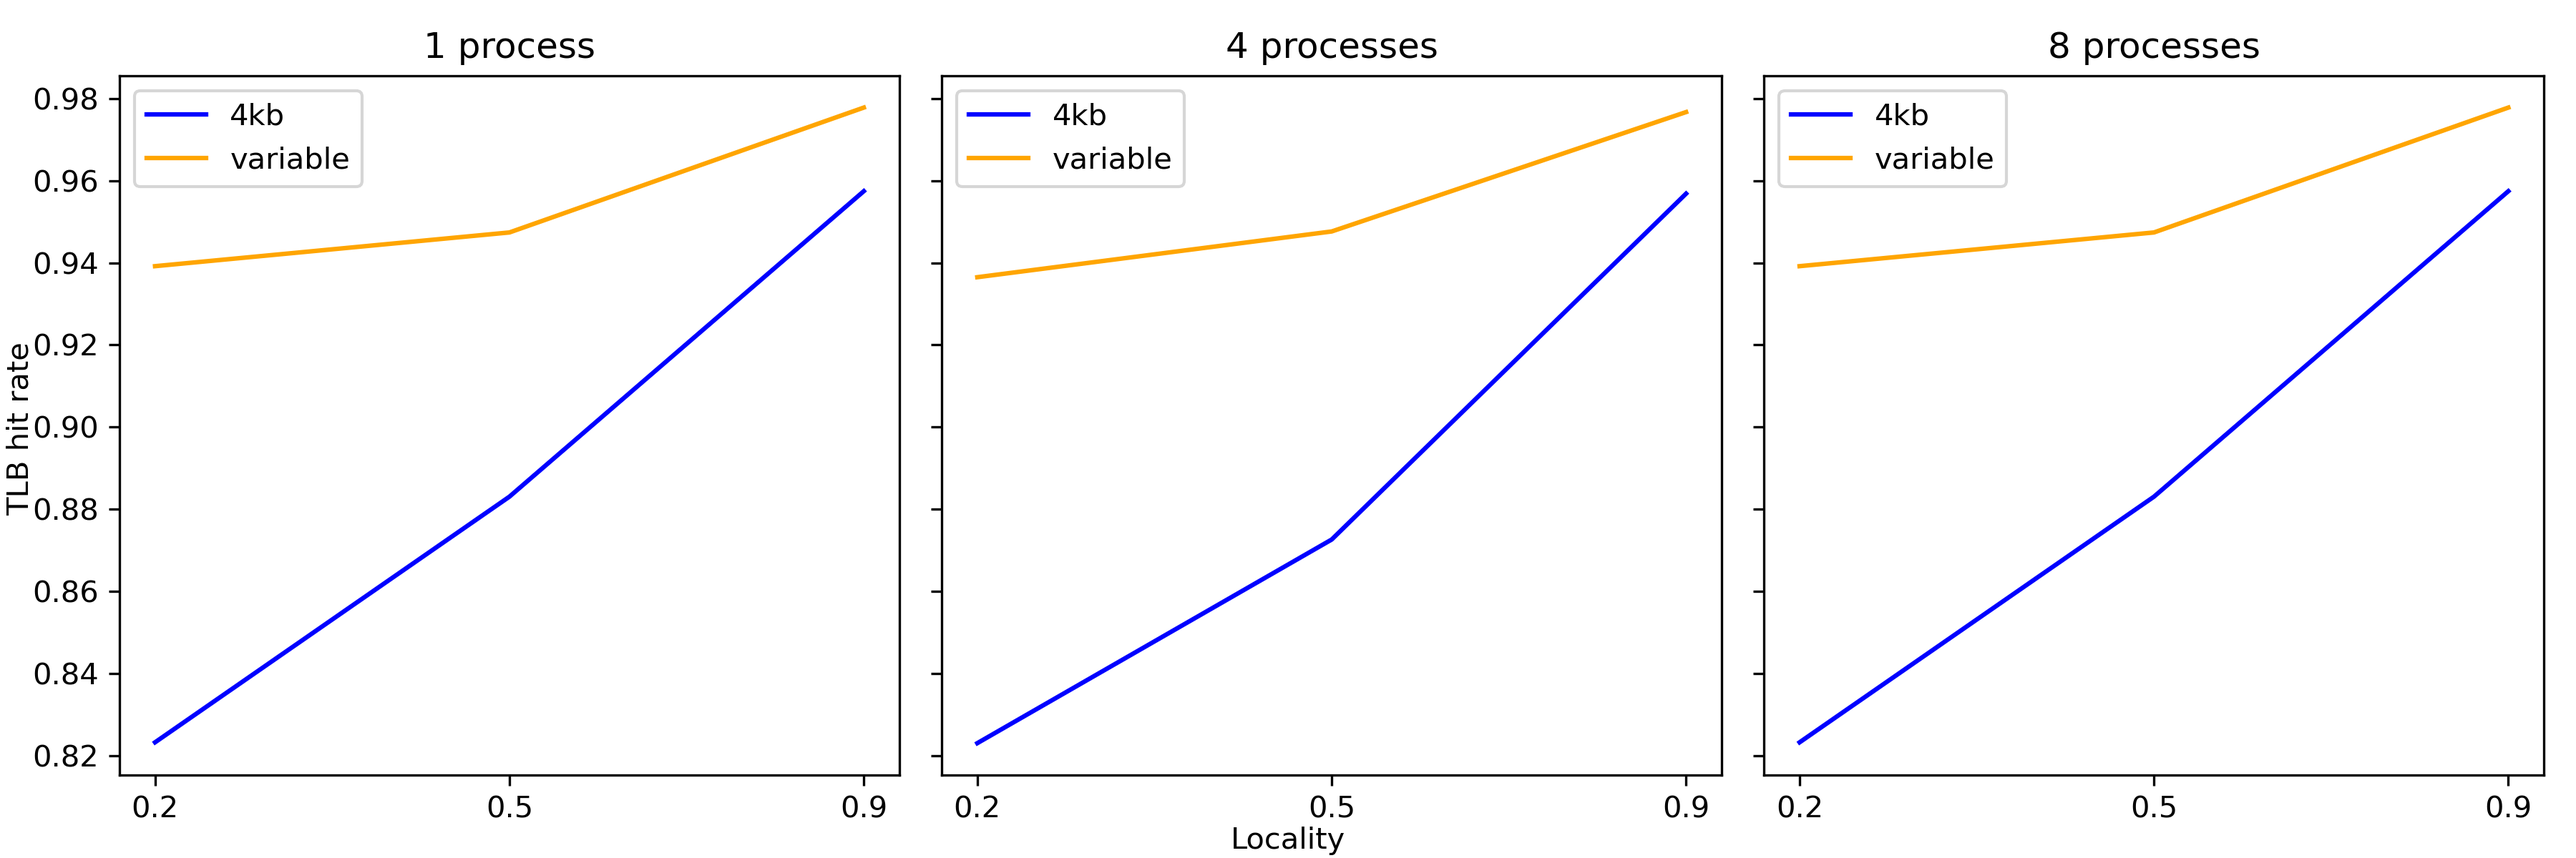
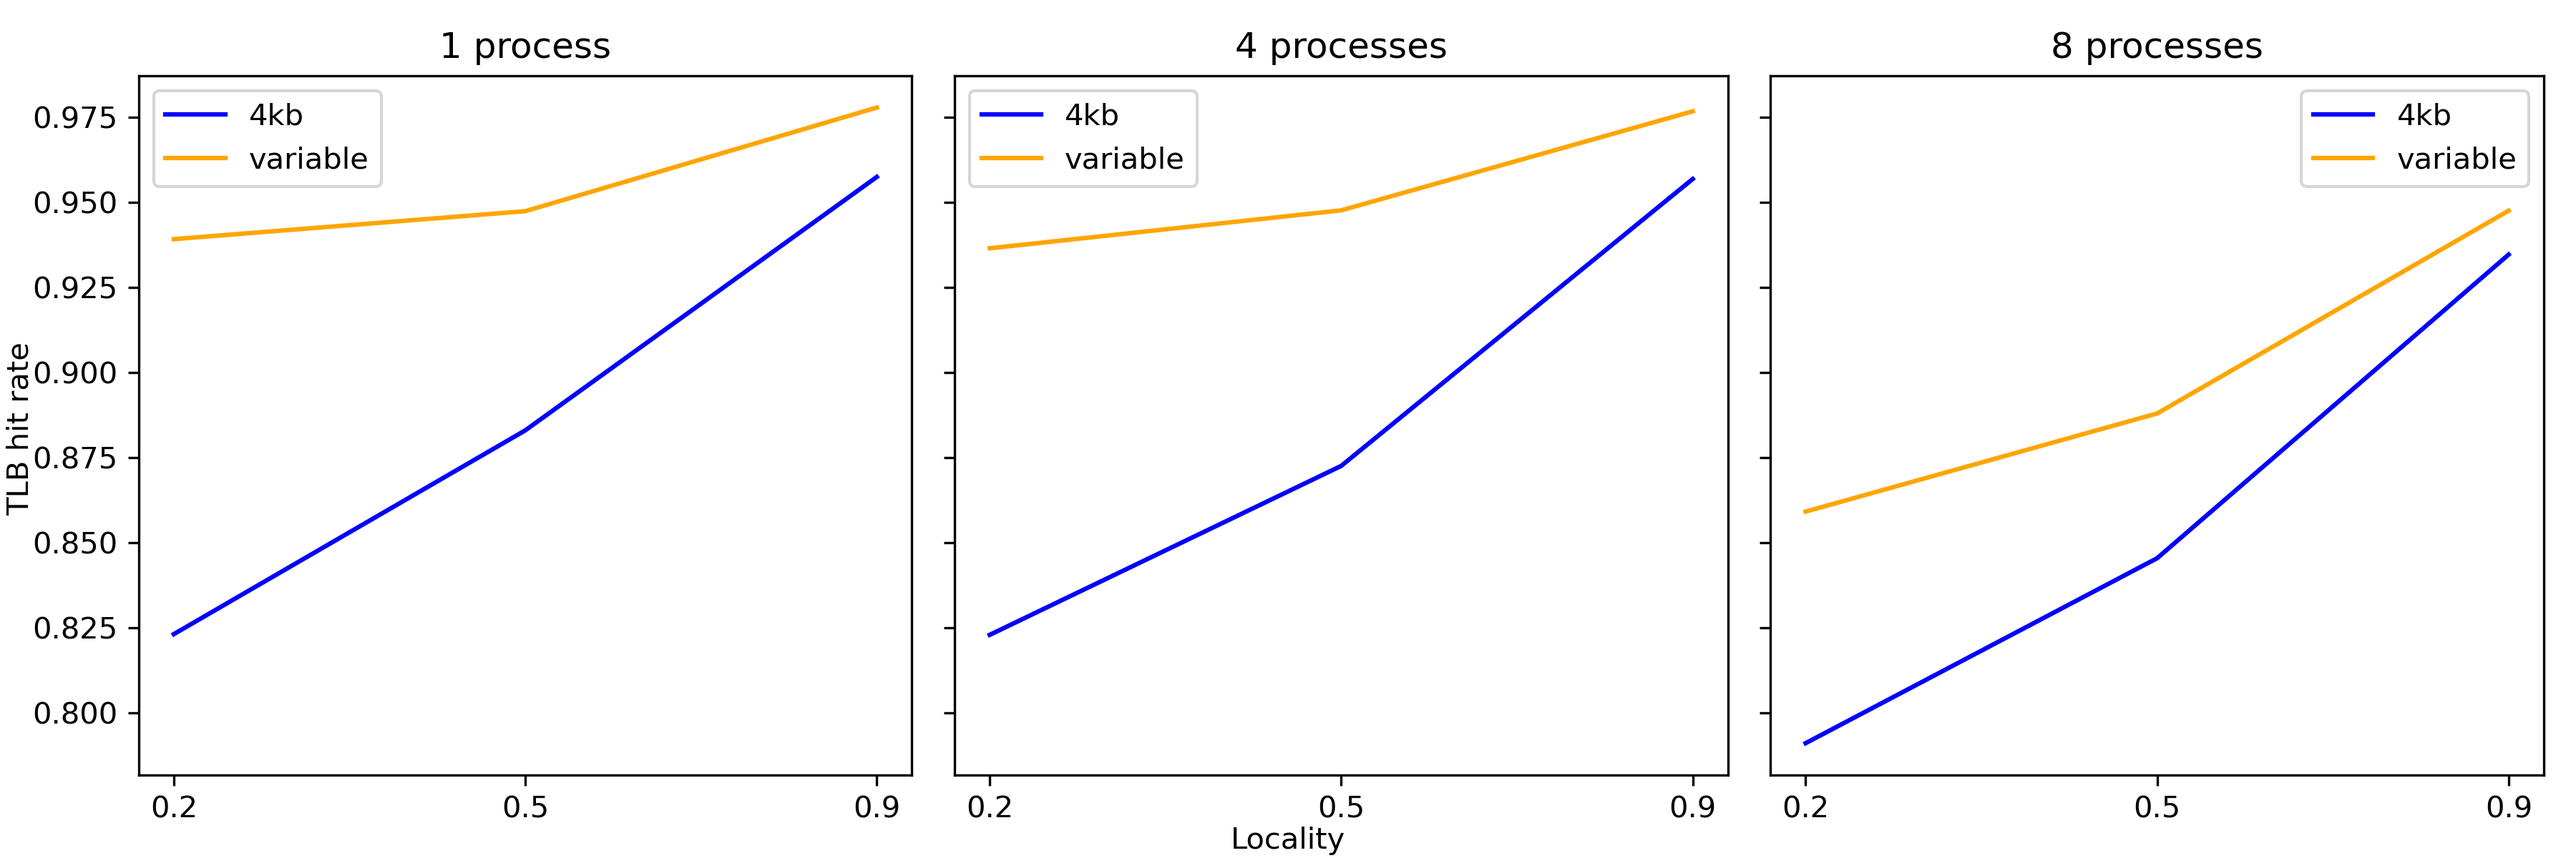
update TLB compare

diff --git a/plot_final.py b/plot_final.py
@@ -63,9 +63,9 @@ def extract_tlb_hit_rates(file_path):
 # file_path = 'results_case1.txt'
 # rates_with_20_case1, rates_with_50_case1,rates_with_90_case1 = extract_tlb_hit_rates(file_path)
 #
-# # case 2: one-level TLB and variable page sizes
-# file_path = 'results_case2.txt'
-# rates_with_20_case2, rates_with_50_case2,rates_with_90_case2 = extract_tlb_hit_rates(file_path)
+# case 2: one-level TLB, random policy, and variable page sizes
+file_path = './results/results_case2.txt'
+rates_with_20_1_case2, rates_with_20_4_case2,rates_with_20_8_case2, rates_with_50_1_case2,rates_with_50_4_case2,rates_with_50_8_case2,rates_with_90_1_case2,rates_with_90_4_case2,rates_with_90_8_case2 = extract_tlb_hit_rates(file_path)
 #
 # # case 3: two-level TLB, random policy, 4KB page size
 file_path = './results/results_case3.txt'
@@ -83,7 +83,11 @@ y3 = [rates_with_20_4_case3, rates_with_50_4_case3,rates_with_90_4_case3]
 y4 = [rates_with_20_4_case4, rates_with_50_4_case4,rates_with_90_4_case4]
 y5 = [rates_with_20_8_case3, rates_with_50_8_case3,rates_with_90_8_case3]
 y6 = [rates_with_20_8_case4, rates_with_50_8_case4,rates_with_90_8_case4]
+y7 = [rates_with_20_1_case2, rates_with_50_1_case2,rates_with_90_1_case2]
+y8 = [rates_with_20_4_case2, rates_with_50_4_case2,rates_with_90_4_case2]
+y9 = [rates_with_20_8_case2, rates_with_50_8_case2,rates_with_90_8_case2]
 
+#variable page size VS 4kb page size
 fig, axs = plt.subplots(1, 3, sharey=True, figsize=(12, 4))
 
 axs[0].plot(x, y1, label='4kb', color='blue')
@@ -96,8 +100,8 @@ axs[1].plot(x, y4, label='variable', color='orange')
 axs[1].set_title('4 processes')
 axs[1].legend()
 
-axs[2].plot(x, y1, label='4kb', color='blue')
-axs[2].plot(x, y2, label='variable', color='orange')
+axs[2].plot(x, y5, label='4kb', color='blue')
+axs[2].plot(x, y6, label='variable', color='orange')
 axs[2].set_title('8 processes')
 axs[2].legend()
 
@@ -106,3 +110,27 @@ fig.text(0.008, 0.5, 'TLB hit rate', ha='center', va='center', rotation='vertica
 
 plt.tight_layout()
 plt.savefig('plot_compare_pageSize.png', dpi=300)
+
+#two-level TLB VS one-level TLB
+fig, axs = plt.subplots(1, 3, sharey=True, figsize=(12, 4))
+
+axs[0].plot(x, y7, label='one-level TLB', color='blue')
+axs[0].plot(x, y2, label='two-level TLB', color='orange')
+axs[0].set_title('1 process')
+axs[0].legend()
+
+axs[1].plot(x, y8, label='one-level TLB', color='blue')
+axs[1].plot(x, y4, label='two-level TLB', color='orange')
+axs[1].set_title('4 processes')
+axs[1].legend()
+
+axs[2].plot(x, y9, label='one-level TLB', color='blue')
+axs[2].plot(x, y6, label='two-level TLB', color='orange')
+axs[2].set_title('8 processes')
+axs[2].legend()
+
+fig.text(0.5, 0.02, 'Locality', ha='center', va='center')
+fig.text(0.008, 0.5, 'TLB hit rate', ha='center', va='center', rotation='vertical')
+
+plt.tight_layout()
+plt.savefig('plot_compare_TLB.png', dpi=300)
